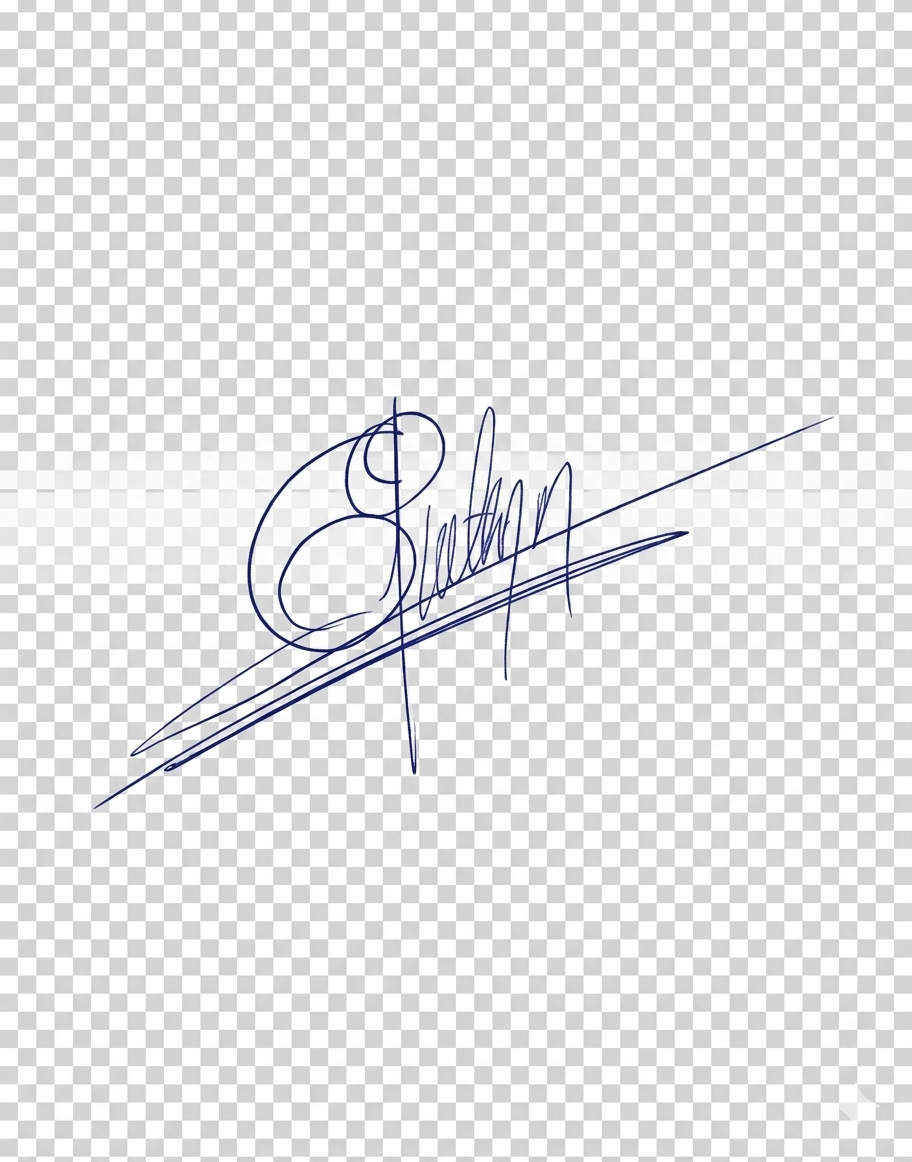
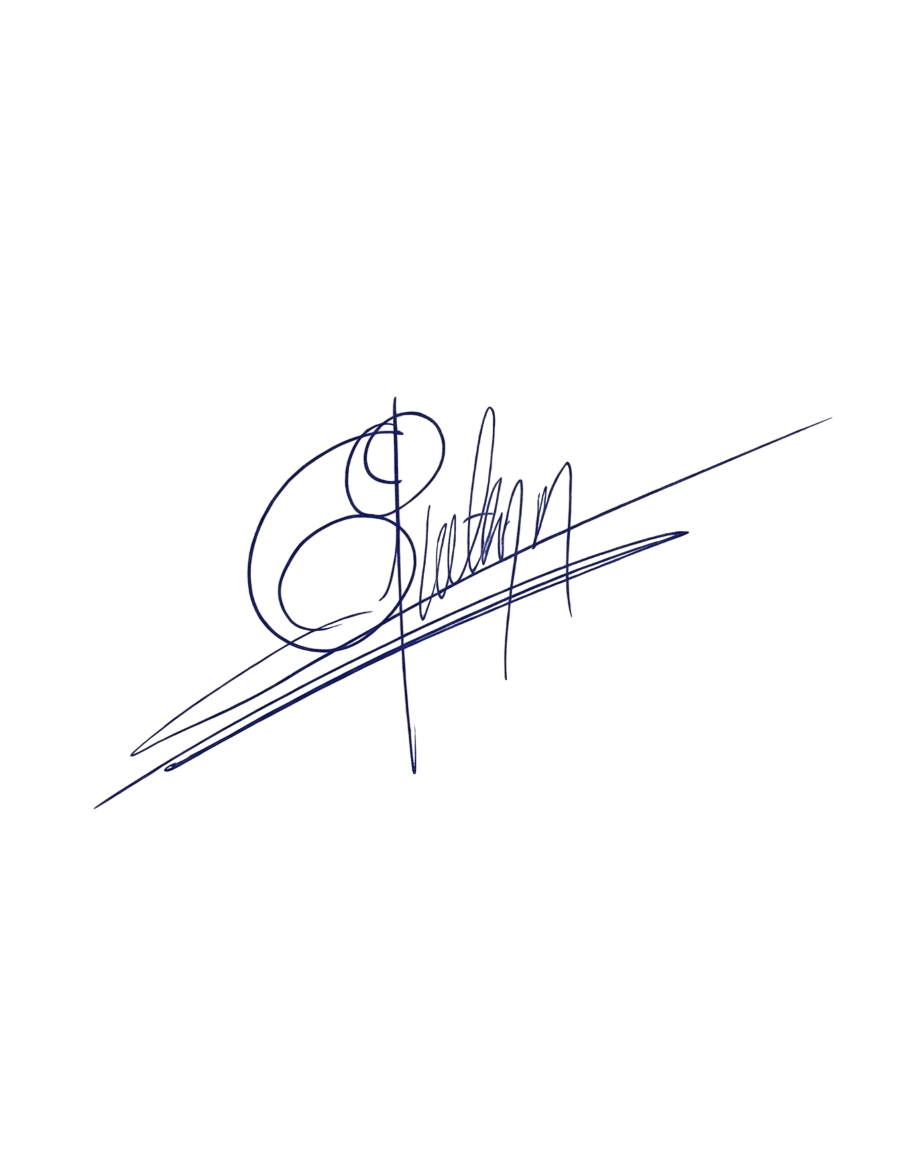
Finiquito 8 - Agregar firma - Error 3 firma

diff --git a/app/services/pdf_service.py b/app/services/pdf_service.py
@@ -193,7 +193,7 @@ class GeneradorFiniquitos(GeneradorDocumentos):
             img_firma = Image(ruta_firma, width=2.2*inch, height=0.8*inch)
             logger.info("Firma cargada correctamente en el PDF.")
         else:
-            img_firma = Image(ruta_firma, width=2.2*inch, height=0.8*inch)
+            img_firma = Image(ruta_firma, width=1.6*inch, height=0.8*inch)
             logger.warning(f"ADVERTENCIA: No se encontró la firma en {ruta_firma}")
 
 
